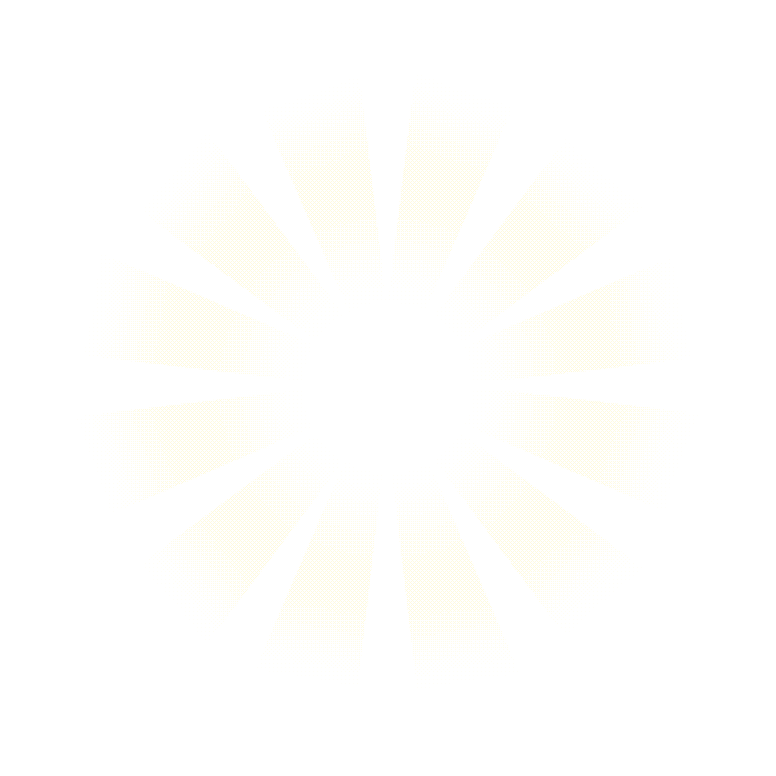
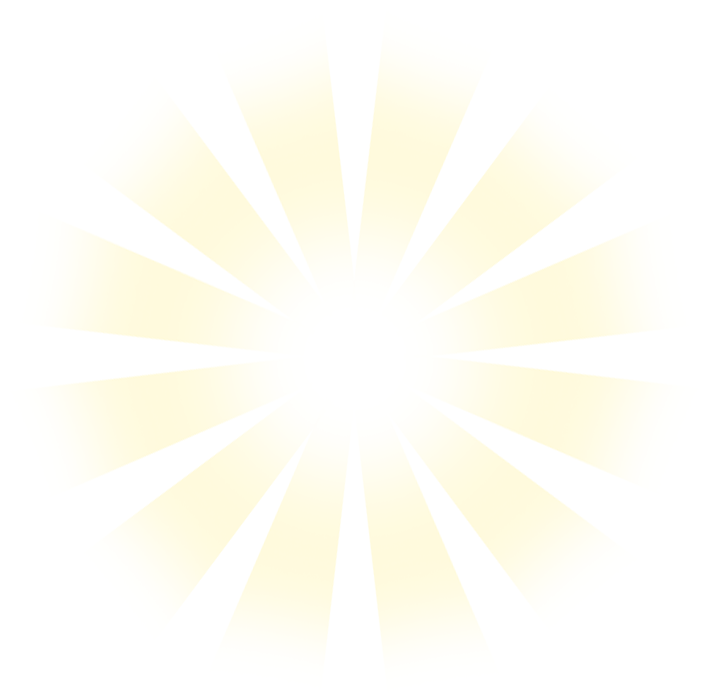
add rotating amage

diff --git a/src/service/dinomao-game.module.ts b/src/service/dinomao-game.module.ts
@@ -4,7 +4,7 @@
 * @Author: Wayne Yu
 * @Date: 2021-08-02 09:33:26
  * @LastEditors: Wayne Yu
- * @LastEditTime: 2021-09-17 09:36:10
+ * @LastEditTime: 2021-09-23 09:47:44
 */
 export { ControlDirection } from './gameData/ControlDirection';
 export { FeatureVo } from './gameData/featrue-vo';
@@ -55,13 +55,15 @@ import { BottomBarComponent } from './ui/bottom-bar/bottom-bar.component';
 export { BottomBarComponent } from './ui/bottom-bar/bottom-bar.component';
 import { CoinComponent } from './ui/coin/coin.component';
 export { CoinComponent } from './ui/coin/coin.component';
+import { ImageRotatingComponent } from './ui/image-rotating/image-rotating.component';
+export { ImageRotatingComponent } from './ui/image-rotating/image-rotating.component';
 
 @NgModule({
   imports: [
     CommonModule,BasicUiModule
   ],
-  declarations: [GenericModalComponent,BottomBarComponent,HeadBarComponent,PopupTextFieldComponent,ListTextFieldComponent,CoinComponent],
-  exports:[GenericModalComponent,BottomBarComponent,HeadBarComponent,PopupTextFieldComponent,ListTextFieldComponent,CoinComponent],
+  declarations: [GenericModalComponent,BottomBarComponent,HeadBarComponent,PopupTextFieldComponent,ListTextFieldComponent,CoinComponent,ImageRotatingComponent],
+  exports:[GenericModalComponent,BottomBarComponent,HeadBarComponent,PopupTextFieldComponent,ListTextFieldComponent,CoinComponent,ImageRotatingComponent],
   providers: []
 })
 export class DinomaoGameModule { }

diff --git a/src/service/ui/image-rotating/image-rotating.component.ts b/src/service/ui/image-rotating/image-rotating.component.ts
@@ -1,0 +1,45 @@
+/*
+* @Description: 
+* @version: 1.0
+* @Author: Wayne Yu
+* @Date: 2021-09-23 09:42:10
+ * @LastEditors: Wayne Yu
+ * @LastEditTime: 2021-09-23 11:30:37
+*/
+import { Component } from '@angular/core';
+import { ImageComponent } from '../../../basicUI/basic-ui.module';
+import { trigger, state, style, animate, transition } from '@angular/animations';
+
+@Component({
+  selector: 'app-image-rotating',
+  templateUrl: './image-rotating.component.html',
+  styleUrls: ['./image-rotating.component.css'],
+  animations: [
+    trigger('carousel',[
+      state('p0', style({transform: 'rotateZ(0deg)'})),
+      state('p1', style({transform: 'rotateZ(180deg)'})),
+      state('p2', style({transform: 'rotateZ(360deg)'})),
+      transition('p0 => p1', [animate('2s')]),
+      transition('p1 => p2', [animate('2s')]),
+      transition('p2 => p3', [animate('0s')]),
+    ])
+  ]
+})
+export class ImageRotatingComponent extends ImageComponent {
+
+  carouselState: string = "p0";
+
+  constructor() {
+    super();
+  }
+
+  ngOnInit() {
+    this.carouselState = "p1";
+  }
+
+  onAnimationEvent( event: any ) {
+    let stateIndex: number = Number( ( event.toState as string ).charAt(1) );
+    stateIndex = ++stateIndex % 4;
+    this.carouselState = "p" + stateIndex;
+  }
+}

diff --git a/src/popups/purchase-success/purchase-success.component.ts b/src/popups/purchase-success/purchase-success.component.ts
@@ -1,15 +1,33 @@
-import { Component, OnInit } from '@angular/core';
+/*
+* @Description: 
+* @version: 1.0
+* @Author: Wayne Yu
+* @Date: 2021-09-22 17:57:16
+ * @LastEditors: Wayne Yu
+ * @LastEditTime: 2021-09-23 11:02:25
+*/
+import { HttpClient } from '@angular/common/http';
+import { Component } from '@angular/core';
+import { BitmapData } from '../../basicUI/basic-ui.module';
+import { GenericModalComponent } from '../../service/dinomao-game.module';
 
 @Component({
   selector: 'app-purchase-success',
   templateUrl: './purchase-success.component.html',
   styleUrls: ['./purchase-success.component.css']
 })
-export class PurchaseSuccessComponent implements OnInit {
+export class PurchaseSuccessComponent extends GenericModalComponent{
 
-  constructor() { }
+  light!: BitmapData;
 
-  ngOnInit() {
+  constructor(public http: HttpClient) {
+    super( http );
+  }
+
+  initUI(){
+    super.setPopupBg( "bg" );
+
+    this.light = this.textureData.getTexture( "quan", 570 - 707 >> 1, 364 - 700 >> 1 );
   }
 
 }

diff --git a/src/popups/purchase-success/purchase-success.component.html b/src/popups/purchase-success/purchase-success.component.html
@@ -1,3 +1,13 @@
-<p>
-  purchase-success works!
-</p>
+<!--
+ * @Description: 
+ * @version: 1.0
+ * @Author: Wayne Yu
+ * @Date: 2021-09-22 17:57:16
+ * @LastEditors: Wayne Yu
+ * @LastEditTime: 2021-09-23 09:45:15
+-->
+<div [style.marginLeft]="-this.marginLeft+'px'" [style.marginTop]="-this.marginTop+'px'">
+  <img [src]="textureDetactive" (load)="bgTextureLoaded()" [hidden]="true"/>
+  <app-image-rotating [imgData]="light"></app-image-rotating>
+  <app-image [imgData]="popupBg"></app-image>
+</div>

diff --git a/src/service/ui/image-rotating/image-rotating.component.html b/src/service/ui/image-rotating/image-rotating.component.html
@@ -1,0 +1,9 @@
+<!--
+ * @Description: 
+ * @version: 1.0
+ * @Author: Wayne Yu
+ * @Date: 2021-09-23 09:42:10
+ * @LastEditors: Wayne Yu
+ * @LastEditTime: 2021-09-23 10:24:48
+-->
+<div class="imgCom" [attr.style]="imgStyle" [@carousel]="carouselState" (@carousel.done)="onAnimationEvent($event)"></div>

diff --git a/src/service/ui/image-rotating/image-rotating.component.css b/src/service/ui/image-rotating/image-rotating.component.css
@@ -1,0 +1,3 @@
+.imgCom{
+    position: absolute;
+}
